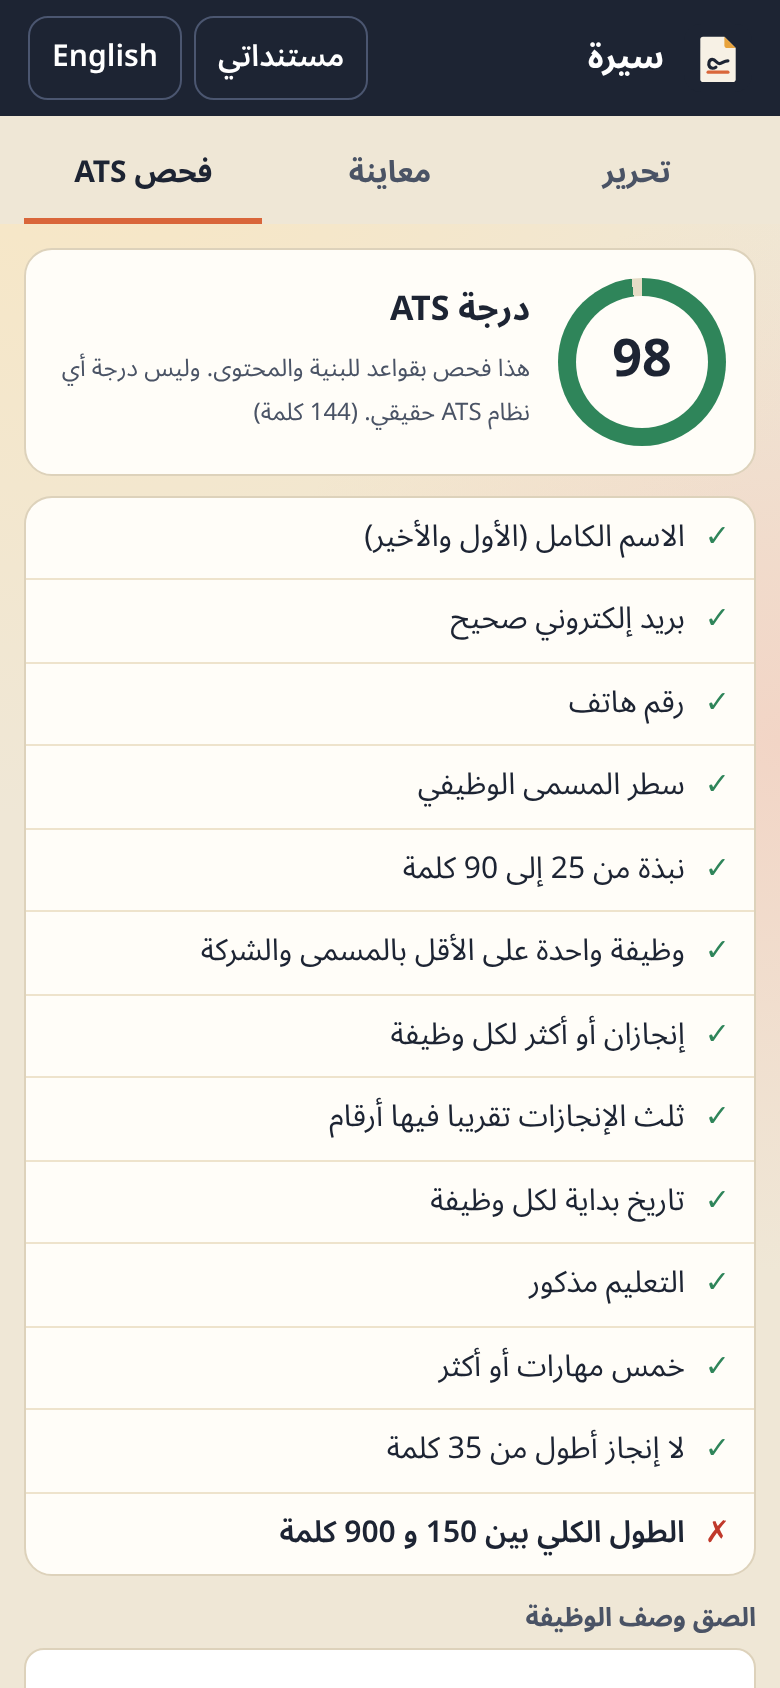
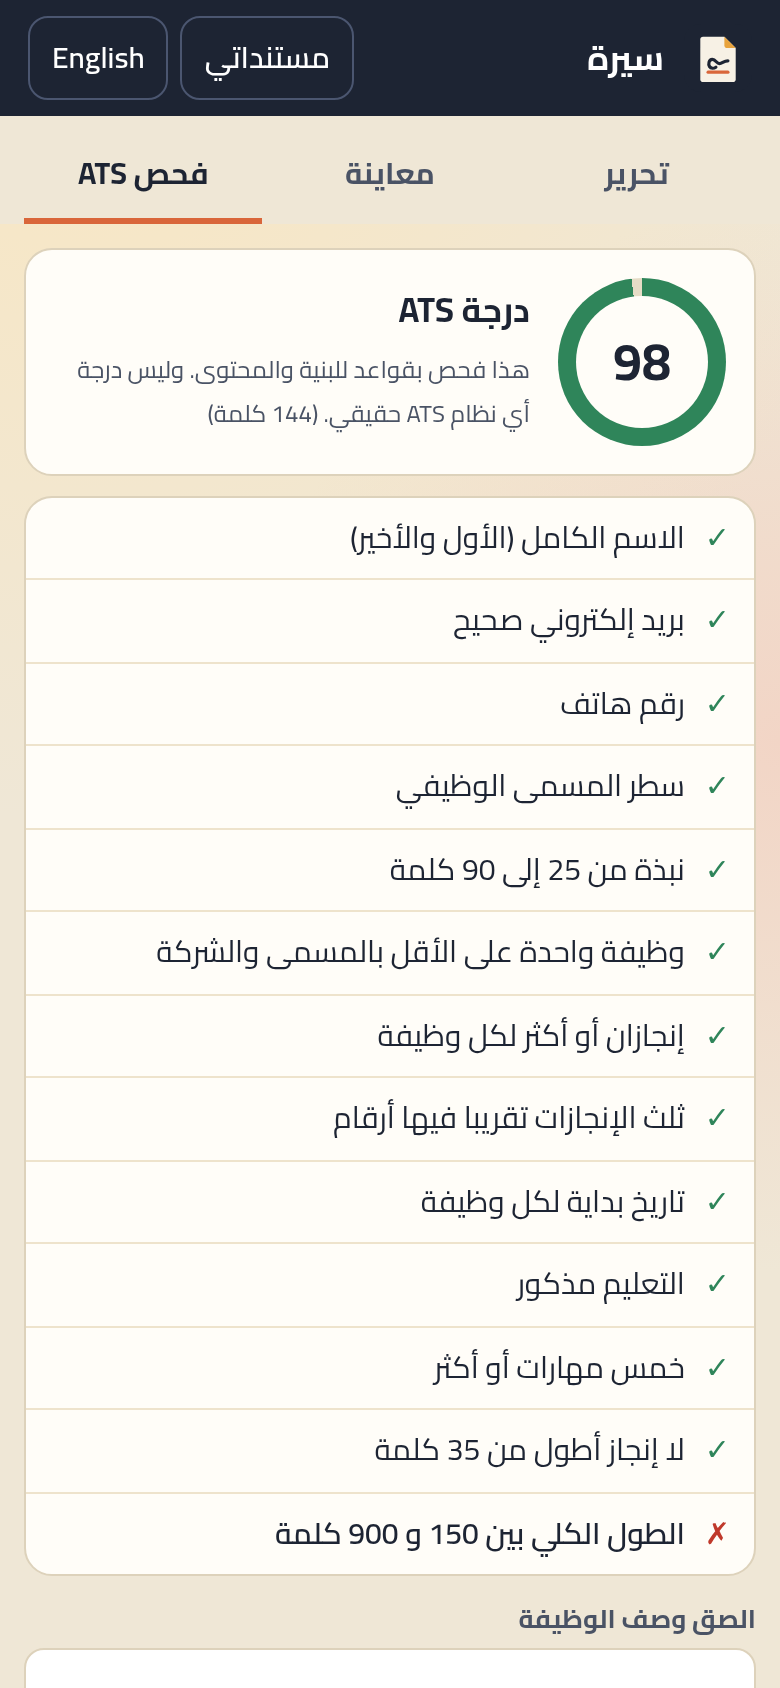
Round 2: self-hosted Cairo fonts, bad-input hardening, import sanitising, WhatsApp/CSV fixes, tests, fresh screenshots

diff --git a/core.js b/core.js
@@ -239,23 +239,42 @@
     return out.join('\n').replace(/\n{3,}/g, '\n\n').trim() + '\n';
   }
 
+  var EXP_ITEM = { role: '', company: '', place: '', start: '', end: '', bullets: '' };
+  var EDU_ITEM = { degree: '', school: '', start: '', end: '', note: '' };
+  function strOf(v, max) { return (typeof v === 'string' ? v : (typeof v === 'number' ? String(v) : '')).slice(0, max); }
+  function itemsOf(list, shape) {
+    return (Array.isArray(list) ? list : []).filter(function (x) { return x && typeof x === 'object'; }).slice(0, 40).map(function (x) {
+      var o = {}; Object.keys(shape).forEach(function (k) { o[k] = strOf(x[k], k === 'bullets' || k === 'note' ? 3000 : 200); }); return o;
+    });
+  }
+  /** Rebuild a document from untrusted data (import or old storage): every field gets the right type and length. */
+  function sanitizeDoc(d) {
+    if (!d || typeof d !== 'object' || (d.kind !== 'cv' && d.kind !== 'letter')) return null;
+    var lang = d.lang === 'ar' ? 'ar' : 'en';
+    var base = d.kind === 'cv' ? emptyCV(lang) : emptyLetter(lang);
+    Object.keys(base).forEach(function (k) {
+      if (['id', 'kind', 'lang', 'updated', 'experience', 'education'].indexOf(k) >= 0) return;
+      base[k] = strOf(d[k], k === 'body' || k === 'job' || k === 'summary' || k === 'why' || k === 'strengths' ? 8000 : 500);
+    });
+    if (d.kind === 'cv') { base.experience = itemsOf(d.experience, EXP_ITEM); base.education = itemsOf(d.education, EDU_ITEM); }
+    base.accent = /^#[0-9a-f]{6}$/i.test(d.accent) ? d.accent : '#0f766e';
+    base.template = ['classic', 'modern', 'compact'].indexOf(d.template) >= 0 ? d.template : 'classic';
+    base.font = d.font === 'serif' ? 'serif' : 'sans';
+    base.size = ['s', 'm', 'l'].indexOf(d.size) >= 0 ? d.size : 'm';
+    if (d.kind === 'letter') base.tone = ['formal', 'friendly', 'bold'].indexOf(d.tone) >= 0 ? d.tone : 'formal';
+    base.updated = Number(d.updated) > 0 ? Number(d.updated) : Date.now();
+    if (typeof d.id === 'string' && /^[\w-]{1,40}$/.test(d.id)) base.id = d.id;
+    return base;
+  }
+
   function validateImport(obj) {
     if (!obj || typeof obj !== 'object') return null;
     var docs = Array.isArray(obj.docs) ? obj.docs : (obj.kind ? [obj] : null);
     if (!docs) return null;
-    return docs.filter(function (d) { return d && (d.kind === 'cv' || d.kind === 'letter'); }).map(function (d) {
-      var base = d.kind === 'cv' ? emptyCV(d.lang) : emptyLetter(d.lang);
-      var out = Object.assign(base, d);
-      out.id = uid();
-      if (out.lang !== 'ar') out.lang = 'en';
-      if (!/^#[0-9a-f]{6}$/i.test(out.accent)) out.accent = '#0f766e';
-      if (['classic', 'modern', 'compact'].indexOf(out.template) < 0) out.template = 'classic';
-      if (d.kind === 'cv') { out.experience = Array.isArray(out.experience) ? out.experience : []; out.education = Array.isArray(out.education) ? out.education : []; }
-      return out;
-    });
+    return docs.map(sanitizeDoc).filter(Boolean).slice(0, 100).map(function (d) { d.id = uid(); return d; });
   }
 
   return { uid: uid, emptyCV: emptyCV, emptyLetter: emptyLetter, tokens: tokens, keywords: keywords, matchJob: matchJob,
     atsCheck: atsCheck, generateLetter: generateLetter, letterText: letterText, cvToText: cvToText, cvPlainText: cvPlainText,
-    bulletsOf: bulletsOf, listOf: listOf, validateImport: validateImport, normalizeDigits: normalizeDigits };
+    bulletsOf: bulletsOf, listOf: listOf, validateImport: validateImport, sanitizeDoc: sanitizeDoc, normalizeDigits: normalizeDigits };
 });

diff --git a/i18n.js b/i18n.js
@@ -2,7 +2,7 @@ window.SEERA_I18N = {
 en: {
  app:'Seera', tag:'CV and cover letter builder that passes ATS filters', edit:'Edit', preview:'Preview', check:'ATS check', docs:'My documents',
  newcv:'New CV', newletter:'New cover letter', sample:'Load sample', dup:'Duplicate', del:'Delete', confirmDel:'Delete this document? This cannot be undone.',
- cv:'CV', letter:'Cover letter', untitled:'Untitled', pdf:'Save as PDF', txt:'Text (.txt)', json:'Backup (.json)', import:'Import backup', copy:'Copy text', copied:'Copied',
+ cv:'CV', letter:'Cover letter', untitled:'Untitled', pdf:'Save as PDF', txt:'Text (.txt)', json:'Backup (.json)', import:'Import backup', copy:'Copy text', copied:'Copied', copyFailed:'Could not copy. Select the text and copy it manually.',
  docLang:'Document language', uiLang:'العربية', template:'Template', accent:'Accent color', font:'Font', size:'Text size',
  t_classic:'Classic', t_modern:'Modern', t_compact:'Compact', f_sans:'Sans', f_serif:'Serif', s_s:'Small', s_m:'Medium', s_l:'Large',
  personal:'Personal details', name:'Full name', jobtitle:'Job title', email:'Email', phone:'Phone', city:'City, country', link:'Link (LinkedIn, portfolio)',
@@ -28,7 +28,7 @@ en: {
 ar: {
  app:'سيرة', tag:'منشئ سيرة ذاتية وخطاب تقديم يجتاز فلاتر ATS', edit:'تحرير', preview:'معاينة', check:'فحص ATS', docs:'مستنداتي',
  newcv:'سيرة ذاتية جديدة', newletter:'خطاب تقديم جديد', sample:'تحميل مثال', dup:'نسخ', del:'حذف', confirmDel:'حذف هذا المستند؟ لا يمكن التراجع.',
- cv:'سيرة ذاتية', letter:'خطاب تقديم', untitled:'بدون عنوان', pdf:'حفظ PDF', txt:'نص (.txt)', json:'نسخة احتياطية (.json)', import:'استيراد نسخة', copy:'نسخ النص', copied:'تم النسخ',
+ cv:'سيرة ذاتية', letter:'خطاب تقديم', untitled:'بدون عنوان', pdf:'حفظ PDF', txt:'نص (.txt)', json:'نسخة احتياطية (.json)', import:'استيراد نسخة', copy:'نسخ النص', copied:'تم النسخ', copyFailed:'معرفتش أنسخ. حدّد النص وانسخه بإيدك.',
  docLang:'لغة المستند', uiLang:'English', template:'القالب', accent:'لون التمييز', font:'الخط', size:'حجم النص',
  t_classic:'كلاسيكي', t_modern:'عصري', t_compact:'مضغوط', f_sans:'بدون زوائد', f_serif:'بزوائد', s_s:'صغير', s_m:'متوسط', s_l:'كبير',
  personal:'البيانات الشخصية', name:'الاسم الكامل', jobtitle:'المسمى الوظيفي', email:'البريد الإلكتروني', phone:'الهاتف', city:'المدينة، الدولة', link:'رابط (لينكدإن، أعمال)',

diff --git a/fonts/fonts.css b/fonts/fonts.css
@@ -1,0 +1,5 @@
+/* Self-hosted Cairo (SIL OFL), variable weight, Google Fonts latin + arabic subsets. */
+@font-face{font-family:'Cairo';font-style:normal;font-weight:200 1000;font-display:swap;src:url(Cairo-arabic.woff2) format('woff2');unicode-range:U+0600-06FF, U+0750-077F, U+0870-0891, U+0897-08E1, U+08E3-08FF, U+200C-200E, U+2010-2011, U+204F, U+2E41, U+FB50-FDFF, U+FE70-FE74, U+FE76-FEFC, U+102E0-102FB, U+10E60-10E7E, U+10EC2-10EC7, U+10EC9-10EEE, U+10EF0-10EFF, U+1EE00-1EE03, U+1EE05-1EE1F, U+1EE21-1EE22, U+1EE24, U+1EE27, U+1EE29-1EE32, U+1EE34-1EE37, U+1EE39, U+1EE3B, U+1EE42, U+1EE47, U+1EE49, U+1EE4B, U+1EE4D-1EE4F, U+1EE51-1EE52, U+1EE54, U+1EE57, U+1EE59, U+1EE5B, U+1EE5D, U+1EE5F, U+1EE61-1EE62, U+1EE64, U+1EE67-1EE6A, U+1EE6C-1EE72, U+1EE74-1EE77, U+1EE79-1EE7C, U+1EE7E, U+1EE80-1EE89, U+1EE8B-1EE9B, U+1EEA1-1EEA3, U+1EEA5-1EEA9, U+1EEAB-1EEBB, U+1EEF0-1EEF1;}
+@font-face{font-family:'Cairo';font-style:normal;font-weight:200 1000;font-display:swap;src:url(Cairo-latin.woff2) format('woff2');unicode-range:U+0000-00FF, U+0131, U+0152-0153, U+02BB-02BC, U+02C6, U+02DA, U+02DC, U+0304, U+0308, U+0329, U+2000-206F, U+20AC, U+2122, U+2191, U+2193, U+2212, U+2215, U+FEFF, U+FFFD;}
+/* Arabic glyphs only, for serif stacks that keep a Latin serif face */
+@font-face{font-family:'CairoAr';font-style:normal;font-weight:200 1000;font-display:swap;src:url(Cairo-arabic.woff2) format('woff2');unicode-range:U+0600-06FF, U+0750-077F, U+0870-0891, U+0897-08E1, U+08E3-08FF, U+200C-200E, U+2010-2011, U+204F, U+2E41, U+FB50-FDFF, U+FE70-FE74, U+FE76-FEFC, U+102E0-102FB, U+10E60-10E7E, U+10EC2-10EC7, U+10EC9-10EEE, U+10EF0-10EFF, U+1EE00-1EE03, U+1EE05-1EE1F, U+1EE21-1EE22, U+1EE24, U+1EE27, U+1EE29-1EE32, U+1EE34-1EE37, U+1EE39, U+1EE3B, U+1EE42, U+1EE47, U+1EE49, U+1EE4B, U+1EE4D-1EE4F, U+1EE51-1EE52, U+1EE54, U+1EE57, U+1EE59, U+1EE5B, U+1EE5D, U+1EE5F, U+1EE61-1EE62, U+1EE64, U+1EE67-1EE6A, U+1EE6C-1EE72, U+1EE74-1EE77, U+1EE79-1EE7C, U+1EE7E, U+1EE80-1EE89, U+1EE8B-1EE9B, U+1EEA1-1EEA3, U+1EEA5-1EEA9, U+1EEAB-1EEBB, U+1EEF0-1EEF1;}

diff --git a/app.js b/app.js
@@ -7,7 +7,8 @@
   function load() {
     try {
       var s = JSON.parse(localStorage.getItem(KEY));
-      if (s && Array.isArray(s.docs) && s.docs.length) { if (!s.docs.some(function (d) { return d.id === s.current; })) s.current = s.docs[0].id; return s; }
+      if (s && Array.isArray(s.docs)) s.docs = s.docs.map(C.sanitizeDoc).filter(Boolean);
+      if (s && Array.isArray(s.docs) && s.docs.length) { s.ui = s.ui === 'ar' ? 'ar' : 'en'; if (['edit', 'preview', 'check'].indexOf(s.tab) < 0) s.tab = 'edit'; if (!s.docs.some(function (d) { return d.id === s.current; })) s.current = s.docs[0].id; return s; }
     } catch (e) {}
     var ui = (navigator.language || '').toLowerCase().indexOf('ar') === 0 ? 'ar' : 'en';
     var cv = C.emptyCV(ui);
@@ -243,7 +244,7 @@
     copy: function () {
       var t = docText(doc());
       (navigator.clipboard ? navigator.clipboard.writeText(t) : Promise.reject()).then(function () { toast(T('copied')); }, function () {
-        var ta = document.createElement('textarea'); ta.value = t; document.body.appendChild(ta); ta.select(); try { document.execCommand('copy'); toast(T('copied')); } catch (e) {} ta.remove();
+        var ta = document.createElement('textarea'); ta.value = t; document.body.appendChild(ta); ta.select(); var ok = false; try { ok = document.execCommand('copy'); } catch (e) {} ta.remove(); toast(ok ? T('copied') : T('copyFailed'));
       });
     },
     add: function (el) {
@@ -330,5 +331,6 @@
   window.addEventListener('beforeunload', flush);
   window.addEventListener('pagehide', flush);
   renderAll();
+  if ('serviceWorker' in navigator && /^https?:/.test(location.protocol) && location.hostname !== 'localhost' && location.hostname !== '127.0.0.1') navigator.serviceWorker.register('sw.js').catch(function () {});
   window.__seera = { state: function () { return state; } };
 })();

diff --git a/test/core.test.js b/test/core.test.js
@@ -26,3 +26,15 @@ t('roundtrip export/import keeps content',()=>{const c=Object.assign(C.emptyCV('
 t('i18n en/ar have same keys',()=>{const a=Object.keys(L.en).sort(),b=Object.keys(L.ar).sort();assert.deepStrictEqual(a,b)});
 t('i18n covers every check id',()=>{const r=C.atsCheck(C.emptyCV());r.checks.forEach(c=>{assert(L.en['c_'+c.id]&&L.ar['c_'+c.id],c.id)})});
 console.log(n+' passed');
+
+const assertX = require('node:assert');
+{
+  const hostile = { docs: [{ kind: 'cv', lang: 'ar', name: { a: 1 }, skills: 5, experience: [null, 3, { role: ['x'], bullets: 'a\nb' }], education: 'no', template: 'evil', accent: 'red', font: 'comic', size: 'xl' }, { kind: 'letter', tone: 'zzz', body: 'ok' }, { kind: 'nope' }, null] };
+  const docs = C.validateImport(hostile);
+  assertX.strictEqual(docs.length, 2);
+  assertX.strictEqual(docs[0].name, ''); assertX.strictEqual(docs[0].skills, '5'); assertX.strictEqual(docs[0].experience.length, 1);
+  assertX.strictEqual(docs[0].experience[0].role, ''); assertX.strictEqual(docs[0].experience[0].bullets, 'a\nb'); assertX.deepStrictEqual(docs[0].education, []);
+  assertX.strictEqual(docs[0].template, 'classic'); assertX.strictEqual(docs[0].font, 'sans'); assertX.strictEqual(docs[0].size, 'm');
+  assertX.strictEqual(docs[1].tone, 'formal'); assertX.strictEqual(C.validateImport({ docs: 5 }), null);
+  console.log('ok hostile import is rebuilt with safe types');
+}

diff --git a/sw.js b/sw.js
@@ -1,0 +1,8 @@
+const CACHE = 'seera-v1';
+const FILES = ['./', 'index.html', 'styles.css', 'core.js', 'i18n.js', 'app.js', 'logo.svg', 'manifest.webmanifest', 'fonts/fonts.css', 'fonts/Cairo-arabic.woff2', 'fonts/Cairo-latin.woff2'];
+self.addEventListener('install', (e) => { e.waitUntil(caches.open(CACHE).then((c) => c.addAll(FILES)).then(() => self.skipWaiting())); });
+self.addEventListener('activate', (e) => { e.waitUntil(caches.keys().then((ks) => Promise.all(ks.filter((k) => k !== CACHE).map((k) => caches.delete(k)))).then(() => self.clients.claim())); });
+self.addEventListener('fetch', (e) => {
+  if (e.request.method !== 'GET' || new URL(e.request.url).origin !== location.origin) return;
+  e.respondWith(fetch(e.request).then((r) => { if (r.ok) { const cp = r.clone(); caches.open(CACHE).then((c) => c.put(e.request, cp)); } return r; }).catch(() => caches.match(e.request, { ignoreSearch: true }).then((r) => r || caches.match('index.html'))));
+});

diff --git a/styles.css b/styles.css
@@ -1,5 +1,5 @@
 :root{--ink:#1d2433;--ink2:#4a5365;--paper:#f7f1e5;--bg:#efe7d6;--card:#fffdf8;--line:#ddd2bb;--sun:#e8a33d;--clay:#d9663a;--ok:#2f855a;--no:#c0392b;--r:14px;
- --sans:"Segoe UI","Noto Sans Arabic","Noto Sans",system-ui,-apple-system,Tahoma,Arial,sans-serif;--serif:"Noto Naskh Arabic","Traditional Arabic",Georgia,"Times New Roman",serif}
+ --sans:"Cairo","Segoe UI","Noto Sans Arabic","Noto Sans",system-ui,-apple-system,Tahoma,Arial,sans-serif;--serif:"CairoAr","Noto Naskh Arabic","Traditional Arabic",Georgia,"Times New Roman",serif}
 *{box-sizing:border-box}
 html{-webkit-text-size-adjust:100%}
 body{margin:0;background:var(--bg);color:var(--ink);font:15px/1.5 var(--sans);min-height:100vh;

diff --git a/index.html b/index.html
@@ -8,6 +8,8 @@
 <meta name="theme-color" content="#1d2433">
 <meta property="og:title" content="Seera - ATS CV and cover letter builder"><meta property="og:description" content="Free, Arabic and English, PDF export, no account.">
 <link rel="icon" href="logo.svg" type="image/svg+xml">
+<link rel="manifest" href="manifest.webmanifest">
+<link rel="stylesheet" href="fonts/fonts.css">
 <link rel="stylesheet" href="styles.css">
 </head>
 <body>

diff --git a/README.md b/README.md
@@ -58,3 +58,9 @@ The browser tests drive headless Chrome over the DevTools protocol at 390px and 
 ## License
 
 MIT, see [LICENSE](LICENSE).
+
+## Fonts, offline and limits (round 2)
+
+- Cairo (SIL OFL) is bundled in `fonts/` (woff2). A service worker caches the app and fonts, so it opens offline after the first visit.
+- Imported backups are rebuilt field by field (wrong types, huge text or broken entries cannot crash the editor); stored data gets the same cleaning on load.
+- PDF export uses the browser print dialog ("Save as PDF"). The PDF keeps real selectable text (checked in tests), but the result depends on the browser's print engine. Copy-text shows an error toast if the browser blocks clipboard access.
